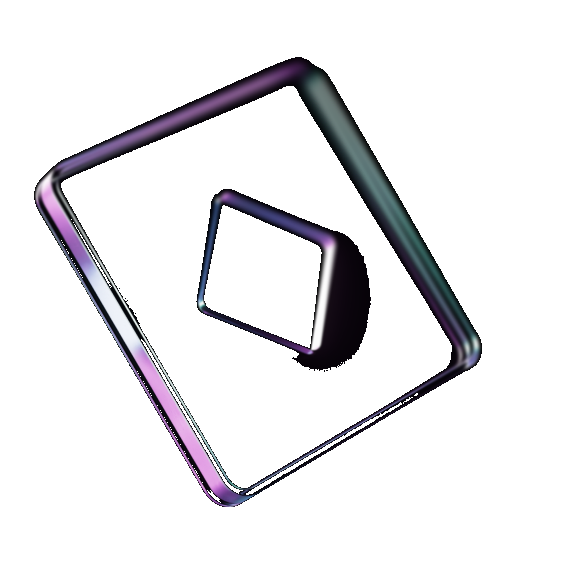
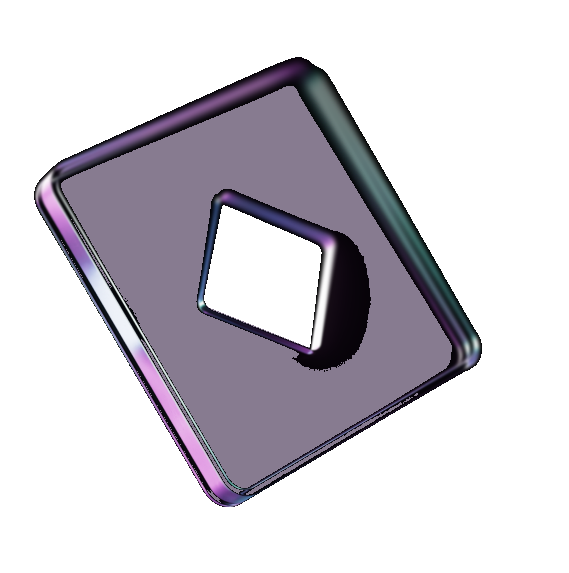
fix(app): lower the sign-in layout and match the glass tiles
Shift the desktop and mobile content down with the phone, and fill the
sign-in buttons white on hover. The right tile is more transparent and
the left tile keeps a darker frost.

Changed region(s): [[0.0896, 0.1483, 0.8067, 0.8604], [0.3585, 0.8604, 0.3884, 0.8901]]

diff --git a/apps/app/src/index.css b/apps/app/src/index.css
@@ -14805,14 +14805,14 @@ body:has(.signin-proposed) {
 
 .signin-stage--desktop h1 {
   left: 100px;
-  top: 197px;
+  top: 229px;
   width: 503px;
   font-size: 72px;
 }
 
 .signin-stage--mobile h1 {
   left: 20px;
-  top: 117px;
+  top: 149px;
   width: 335px;
   font-size: 44px;
   text-align: center;
@@ -14831,14 +14831,14 @@ body:has(.signin-proposed) {
 
 .signin-stage--desktop .signin-sub {
   left: 100px;
-  top: 355px;
+  top: 387px;
   width: 503px;
   font-size: 18px;
 }
 
 .signin-stage--mobile .signin-sub {
   left: 31px;
-  top: 498px;
+  top: 530px;
   width: 313px;
   font-size: 15px;
   text-align: center;
@@ -14884,9 +14884,16 @@ body:has(.signin-proposed) {
   max-width: 297px !important;
 }
 
+.signin-btn,
+.signin-wallet button {
+  transition: background 0.15s ease, border-color 0.15s ease, color 0.15s ease;
+}
+
 .signin-btn:hover,
 .signin-wallet button:hover {
   border-color: #faf8f5 !important;
+  background: #faf8f5 !important;
+  color: #000000 !important;
 }
 
 .signin-btn svg {
@@ -14905,34 +14912,34 @@ body:has(.signin-proposed) {
 
 .signin-stage--desktop .signin-btn--google {
   left: 100px;
-  top: 411px;
+  top: 443px;
 }
 
 .signin-stage--desktop .signin-wallet {
   left: 100px;
-  top: 473px;
+  top: 505px;
 }
 
 .signin-stage--mobile .signin-btn--google {
   left: 39px;
-  top: 569px;
+  top: 601px;
 }
 
 .signin-stage--mobile .signin-wallet {
   left: 39px;
-  top: 631px;
+  top: 663px;
 }
 
 .signin-stage--desktop .signin-tos {
   left: 100px;
-  top: 555px;
+  top: 587px;
   width: 503px;
   font-size: 12px;
 }
 
 .signin-stage--mobile .signin-tos {
   left: 51px;
-  top: 710px;
+  top: 742px;
   width: 273px;
   font-size: 11px;
   text-align: center;
@@ -14946,7 +14953,7 @@ body:has(.signin-proposed) {
 
 .signin-stage--desktop .signin-trusted {
   left: 100px;
-  top: 660px;
+  top: 692px;
   width: 503px;
   font-size: 18px;
 }
@@ -14964,7 +14971,7 @@ body:has(.signin-proposed) {
 
 .signin-allium {
   left: 99px;
-  top: 712px;
+  top: 744px;
   width: 97.41px;
   height: 28.51px;
   overflow: hidden;
@@ -14981,21 +14988,21 @@ body:has(.signin-proposed) {
 
 .signin-partner--inflectiv {
   left: 224.79px;
-  top: 714.38px;
+  top: 746.38px;
   width: 110.73px;
   height: 23.76px;
 }
 
 .signin-partner--talus {
   left: 364px;
-  top: 718.53px;
+  top: 750.53px;
   width: 85.64px;
   height: 14.85px;
 }
 
 .signin-partner--tatum {
   left: 479.29px;
-  top: 714.38px;
+  top: 746.38px;
   width: 96.82px;
   height: 19.6px;
 }
@@ -15027,7 +15034,7 @@ body:has(.signin-proposed) {
 
 .signin-stage--desktop .signin-phone {
   left: 811.42px;
-  top: 113.62px;
+  top: 145.62px;
   width: 396.52px;
   height: 742.3px;
   z-index: 2;
@@ -15046,7 +15053,7 @@ body:has(.signin-proposed) {
 
 .signin-stage--mobile .signin-phone {
   left: 83px;
-  top: 222px;
+  top: 254px;
   width: 209px;
   height: 330px;
   z-index: 2;
@@ -15065,7 +15072,7 @@ body:has(.signin-proposed) {
 
 .signin-stage--desktop .signin-tile--back {
   left: 766.15px;
-  top: 66.17px;
+  top: 98.17px;
   width: 206.5px;
   height: 199px;
   z-index: 1;
@@ -15073,7 +15080,7 @@ body:has(.signin-proposed) {
 
 .signin-stage--desktop .signin-tile--left {
   left: 694.3px;
-  top: 575.97px;
+  top: 607.97px;
   width: 284.5px;
   height: 286.5px;
   z-index: 3;
@@ -15081,7 +15088,7 @@ body:has(.signin-proposed) {
 
 .signin-stage--mobile .signin-tile--left {
   left: 17.14px;
-  top: 355.21px;
+  top: 387.21px;
   width: 132px;
   height: 133px;
   z-index: 3;
@@ -15089,7 +15096,7 @@ body:has(.signin-proposed) {
 
 .signin-stage--desktop .signin-tile--right {
   left: 1118.17px;
-  top: 358.66px;
+  top: 390.66px;
   width: 263px;
   height: 294px;
   z-index: 4;
@@ -15097,7 +15104,7 @@ body:has(.signin-proposed) {
 
 .signin-stage--mobile .signin-tile--right {
   left: 240.44px;
-  top: 245.23px;
+  top: 277.23px;
   width: 114px;
   height: 128px;
   z-index: 4;

diff --git a/apps/app/src/pages/LandingPage.tsx b/apps/app/src/pages/LandingPage.tsx
@@ -47,8 +47,8 @@ function SignInHero({ stage }: { stage: 'desktop' | 'mobile' }) {
                     <img src="/signin/phone.png" alt="" />
                     <div className="signin-phone-fade" />
                 </div>
-                <img className="signin-tile signin-tile--left" src="/signin/tile-left.png?v=light2" alt="" />
-                <img className="signin-tile signin-tile--right" src="/signin/tile-right.png?v=light2" alt="" />
+                <img className="signin-tile signin-tile--left" src="/signin/tile-left.png?v=glass3" alt="" />
+                <img className="signin-tile signin-tile--right" src="/signin/tile-right.png?v=glass3" alt="" />
             </div>
         )
     }
